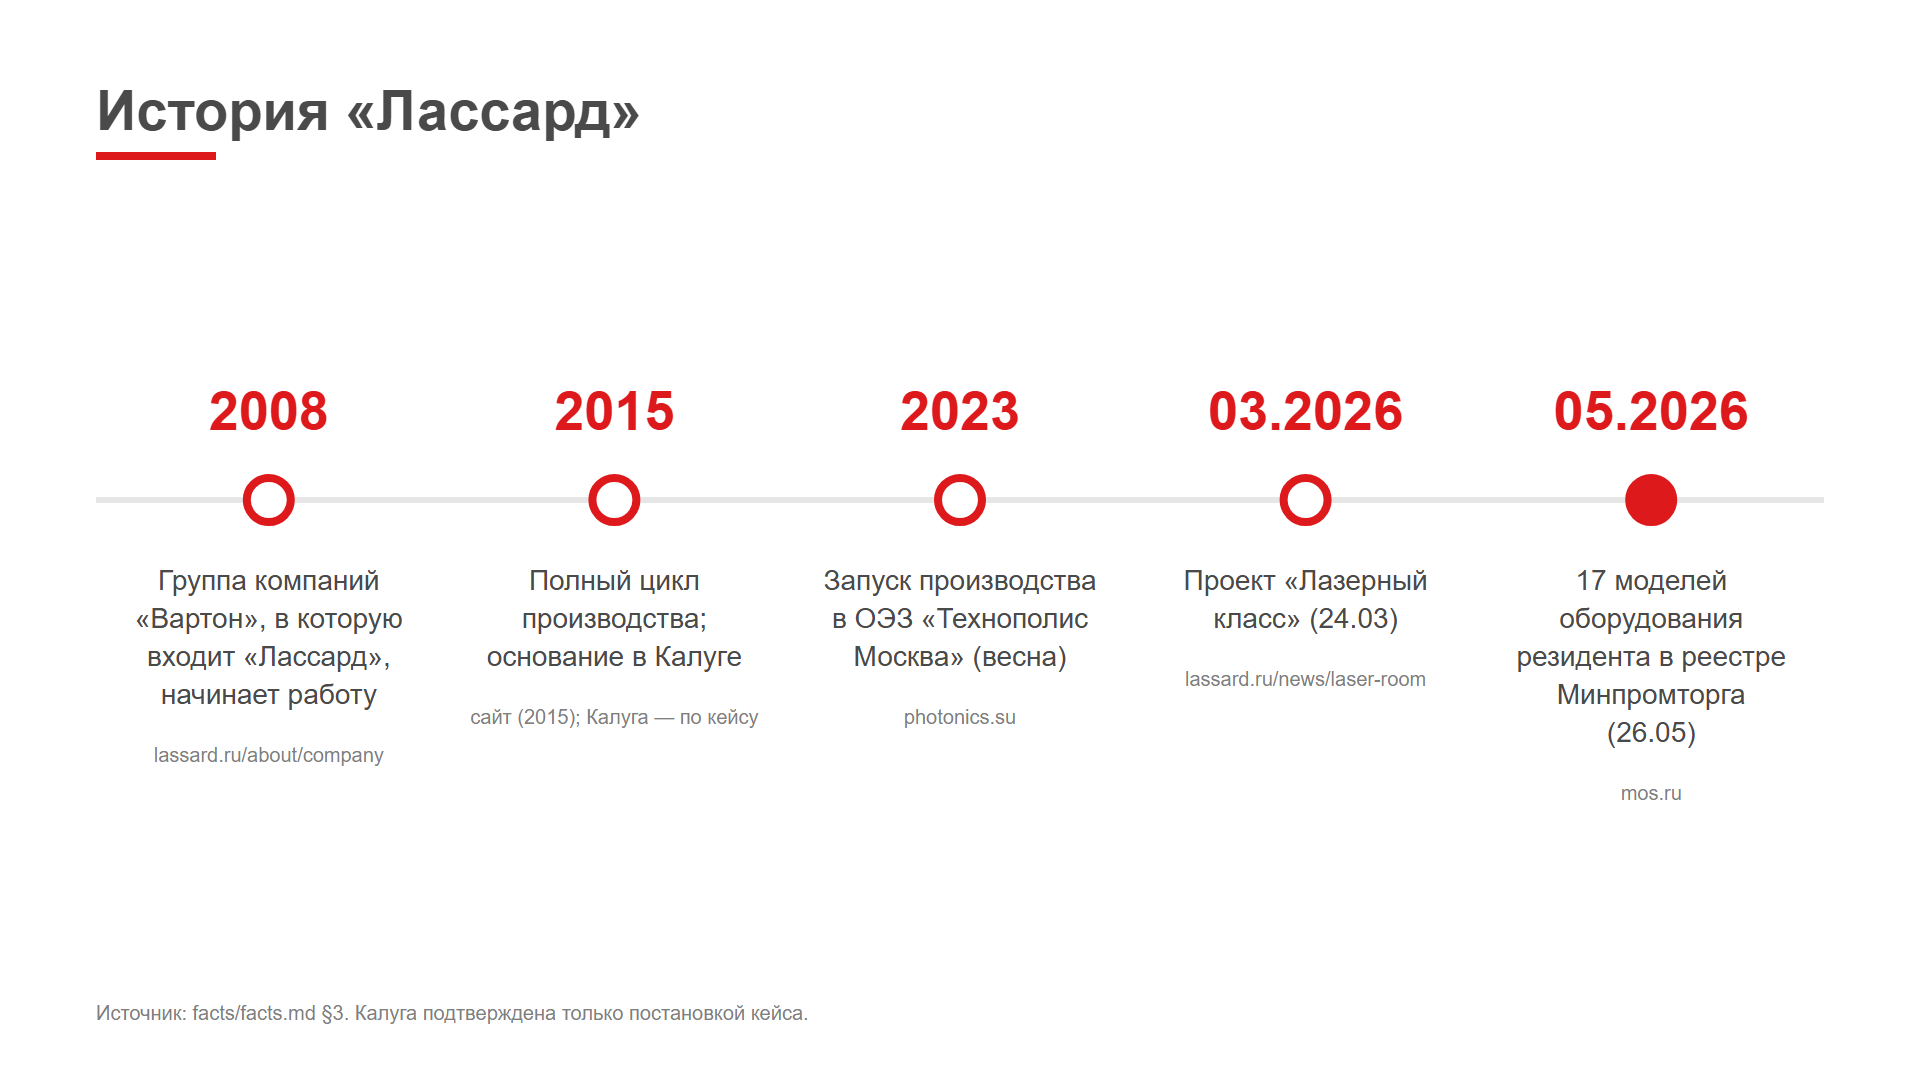
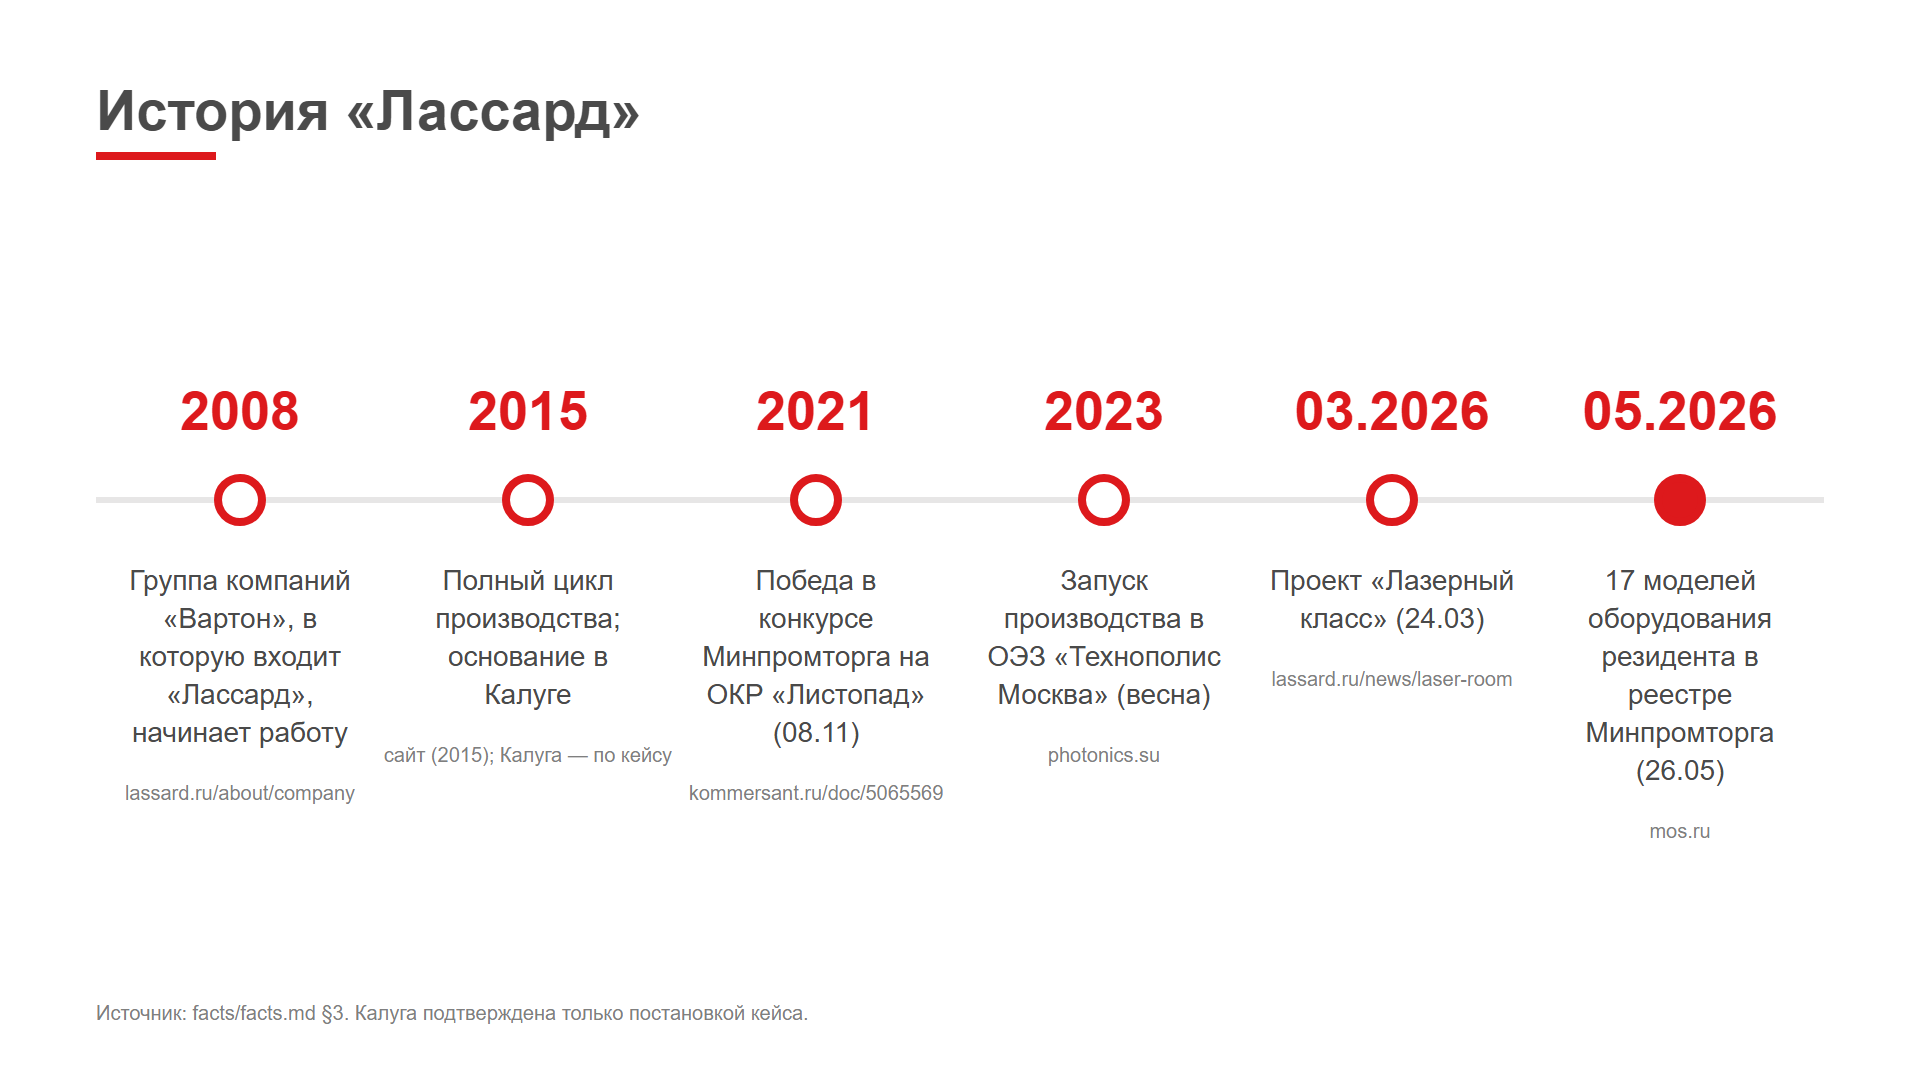
fix: инфографика — Листопад 2021 по facts §3, без пометок «100+ станков» и «схема упрощена»

diff --git a/scripts/make_infographics.py b/scripts/make_infographics.py
@@ -65,6 +65,7 @@ def timeline():
     events = [
         ("2008", "Группа компаний «Вартон», в которую входит «Лассард», начинает работу", "lassard.ru/about/company"),
         ("2015", "Полный цикл производства; основание в Калуге", "сайт (2015); Калуга — по кейсу"),
+        ("2021", "Победа в конкурсе Минпромторга на ОКР «Листопад» (08.11)", "kommersant.ru/doc/5065569"),
         ("2023", "Запуск производства в ОЭЗ «Технополис Москва» (весна)", "photonics.su"),
         ("03.2026", "Проект «Лазерный класс» (24.03)", "lassard.ru/news/laser-room"),
         ("05.2026", "17 моделей оборудования резидента в реестре Минпромторга (26.05)", "mos.ru"),
@@ -78,7 +79,7 @@ def timeline():
         last = i == len(events) - 1
         parts.append(f'<circle cx="{cx}" cy="{y}" r="22" fill="{RED if last else WHITE}" stroke="{RED}" stroke-width="8"/>')
         parts.append(text(cx, y - 70, date, 54, RED, "bold", "middle"))
-        lines = wrap(desc, 19)
+        lines = wrap(desc, 16)
         for j, ln in enumerate(lines):
             parts.append(text(cx, y + 90 + j * 38, ln, 28, INK, "normal", "middle"))
         parts.append(text(cx, y + 110 + len(lines) * 38, src, 20, MID, "normal", "middle"))
@@ -92,7 +93,7 @@ def numbers():
         ("14 400 м²", "производственных площадей", ""),
         ("30+", "видов станков", ""),
         ("100+", "оптико-механических изделий", ""),
-        ("400+", "единиц оборудования в год", "по кейсу; на сайте «100+ станков в год» — уточняется"),
+        ("400+", "единиц оборудования в год", ""),
         ("80%", "локализации", ""),
         ("Реестр", "Минпромторга РФ", ""),
     ]
@@ -159,12 +160,12 @@ def geo_map():
     parts.append(f'<rect x="1020" y="840" width="804" height="150" fill="{RED}"/>')
     parts.append(text(1422, 920, "Москва + 40 регионов + Беларусь", 46, WHITE, "bold", "middle"))
     parts.append(text(1422, 962, "поставки: Москва, 40 регионов России, экспорт в Беларусь", 22, WHITE, "normal", "middle"))
-    parts.append(footnote("Схематично, не в масштабе; контуры нарисованы вручную. Конкретные регионы не показаны: "
-                          "списка с URL на lassard.ru нет. Источник: facts/facts.md §1–2."))
+    parts.append(footnote("Не в масштабе. Источник: facts/facts.md §1–2."))
     return svg_doc("Карта присутствия", "".join(parts))
 
 
 def cycle():
+    # Диоды/источники ↔ площадки — ДОПУЩЕНИЕ по кейсу: Обнинск — лазеры и компоненты, Варшавка — лазеры.
     nodes = [("Кристалл", "выращивание", "Обнинск"),
              ("Квантрон / диод", "накачка", "Обнинск"),
              ("Источник", "лазер", "Варшавское шоссе"),
@@ -187,8 +188,7 @@ def cycle():
         parts.append(f'<rect x="{x}" y="{y + bh + 70}" width="{bw}" height="70" fill="{PALE}"/>')
         parts.append(f'<rect x="{x}" y="{y + bh + 70}" width="{bw}" height="8" fill="{MID}"/>')
         parts.append(text(x + bw / 2, y + bh + 120, site, 26, INK, "bold", "middle"))
-    parts.append(footnote("Схема упрощена: Обнинск также выпускает твердотельные лазеры. "
-                          "Источник: lassard.ru/about/company, photonics.su."))
+    parts.append(footnote("Источник: lassard.ru/about/company, photonics.su."))
     return svg_doc("Цикл производства", "".join(parts))
 
 
